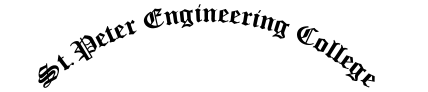
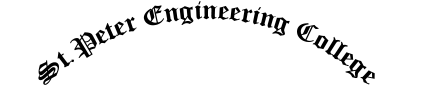
text and margin

Changed region(s): [[0.0911, 0.0217, 0.8808, 0.9565]]

diff --git a/src/public/markssheetcontent/result.css b/src/public/markssheetcontent/result.css
@@ -59,7 +59,7 @@ img.result-bg{
 .hdrText{
     width:100%;
     padding:0;
-    margin:-18px 0 0;
+    /*margin:-18px 0 0;*/
     position:relative;
     text-align:center;
 }
